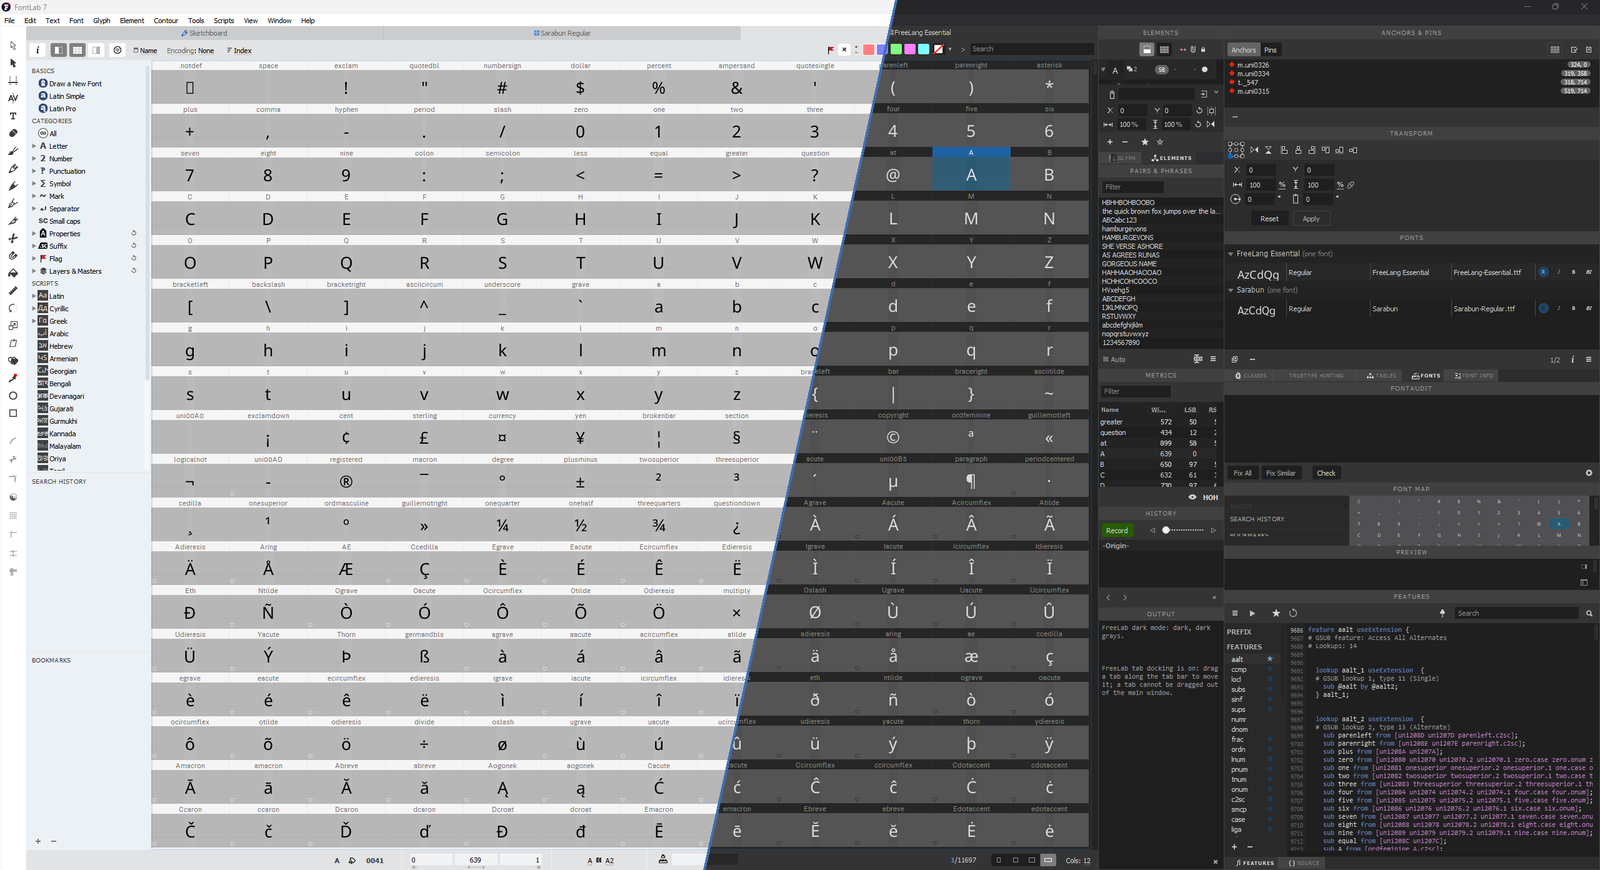
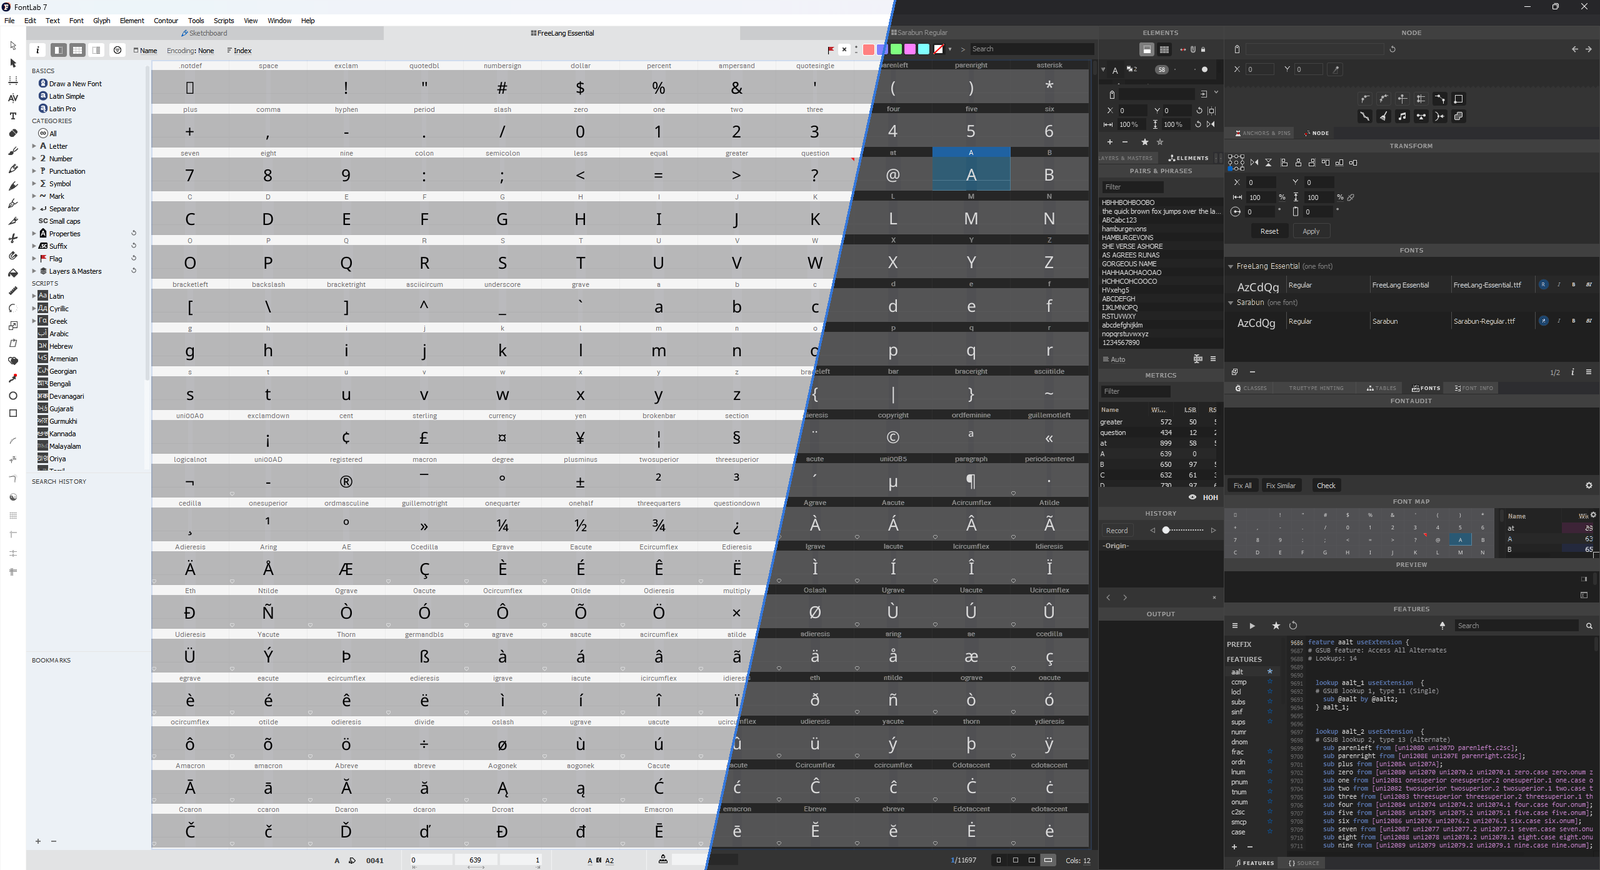
Dark mode: pictures in glyphs shown as they are; README picture retaken
- A canvas' pictures (a scan, a screenshot placed in a glyph) are drawn
  as they are over its mapping: FontLab's canvas API gives each picture
  element's place on screen (the element's transform, the glyph's place
  in its line, the canvas' transform), asked at most every 0.15 s.
- docs/images/dark-mode.png taken again with this round's fixes.
- Docs: the picture behavior, the roadmap's open items, history.

diff --git a/darkmode/freelab_dark_mode.py b/darkmode/freelab_dark_mode.py
@@ -2015,6 +2015,8 @@ def _effect_classes():
                     if logos:
                         draw_logos(painter, pixmap, offset, logos)
                     keep_unmapped(self, painter, pixmap, offset)
+                    if kind == "island" and self.freelab_keep_tint:
+                        keep_pictures(self, painter, pixmap, offset)
                 except Exception as exc:
                     _note_error("effect", exc)
                     self.drawSource(painter)
@@ -2117,6 +2119,16 @@ def _effect_classes():
                     # (the owner, November 24). On a ground dark already (the Font window's bar) it is kept.
                     continue
                 painter.drawPixmap(area.topLeft(), pixmap, local)
+
+        def keep_pictures(effect, painter, pixmap, offset):
+            """The pictures of the glyphs a canvas shows, drawn as they are over its mapping (see
+            _picture_rects): a scan or a screenshot turned over came out as a negative."""
+            for rect in _picture_rects(effect):
+                area = rect.translated(offset).intersected(QRect(offset, pixmap.size()))
+                if painter.hasClipping():
+                    area = area.intersected(painter.clipBoundingRect().toAlignedRect())
+                if not area.isEmpty():
+                    painter.drawPixmap(area.topLeft(), pixmap, area.translated(-offset.x(), -offset.y()))
 
         class TitleEffect(QGraphicsEffect):
             """Draw a panel as it is, then its title strip mapped."""
@@ -2781,6 +2793,66 @@ def _restore_cursor(widget, record):
             widget.setCursor(original)
     except Exception as exc:
         _note_error("cursor", exc)
+
+
+# A canvas' pictures (a scan or a screenshot placed in a glyph, to trace or to compare) are pixels like the rest
+# of the canvas, and the canvas is mapped whole: a picture came out as its negative, and whatever FontLab draws
+# over it with it (the owner, November 25: "inverted images also mess up with other stuff"). FontLab says where
+# each picture is: an element whose image is not null, in the shown layer of each glyph of the canvas' text;
+# the element's transform, the glyph's place in its line, and the canvas' own transform take it to the screen.
+# Its area is drawn as it is, over the mapping, with what FontLab draws on it in its light colors.
+PICTURE_RECTS_SECONDS = 0.15  # how long the places found are used before they are asked again (a repaint is often)
+PICTURE_MAX_GLYPHS = 200  # glyphs of a canvas' text looked at
+
+
+def _picture_rects(effect):
+    """The rectangles (widget coordinates, QRect) of the pictures a canvas shows, or []. Asked of FontLab at most
+    every PICTURE_RECTS_SECONDS. Never raises."""
+    try:
+        now = time.time()
+        kept = getattr(effect, "freelab_pictures", None)
+        if kept is not None and now - kept[0] < PICTURE_RECTS_SECONDS:
+            return kept[1]
+        rects = []
+        try:
+            rects = _find_picture_rects(effect.freelab_widget)
+        except Exception as exc:
+            _note_error("pictures", exc)
+        effect.freelab_pictures = (now, rects)
+        return rects
+    except Exception:
+        return []
+
+
+def _find_picture_rects(widget):
+    import fontlab
+    QRectF = _core("QRectF")
+    workspace = fontlab.flWorkspace.instance()
+    canvas = workspace.getCanvasForViewport(widget)
+    if canvas is None:
+        return []
+    found = []
+    to_screen = canvas.transform
+    for block in canvas.textBlocks():
+        glyphs = block.getAllGlyphs()
+        for index, info in enumerate(glyphs[:PICTURE_MAX_GLYPHS]):
+            glyph = info.glyph
+            if glyph is None:
+                continue
+            layer = glyph.activeLayer
+            layer = layer() if callable(layer) else layer
+            if layer is None:
+                continue
+            for shape in layer.shapes:
+                image = shape.image
+                if image is None or image.isNull():
+                    continue
+                rect = QRectF(0, 0, image.width(), image.height())
+                rect = shape.transform.mapRect(rect)
+                rect = block.getGlyphTransform(index).mapRect(rect)
+                rect = to_screen.mapRect(rect)
+                found.append(rect.toAlignedRect())
+    return found
 
 
 def _frame_picker(widget):

diff --git a/tests/darkmode_tests.py b/tests/darkmode_tests.py
@@ -281,6 +281,99 @@ class ShadeAndPickerTests(DarkModeCase):
                          "the glow black at the opacity it had; the arrow, its outline, and the outline's own smoothing as drawn")
         self.assertFalse(dm.glow_to_shadow(Picture([clear, white, black, edge])), "no glow: nothing to make")
 
+    def test_a_canvas_pictures_are_found_where_fontlab_draws_them(self):
+        """The owner, November 25: a picture in a glyph came out as its negative. Its place comes from FontLab:
+        the element's transform, the glyph's place in its line, the canvas' transform."""
+        import sys as system
+        import types
+
+        class Rect(object):
+            def __init__(self, x, y, w, h):
+                self.box = (x, y, w, h)
+
+            def toAlignedRect(self):
+                return self.box
+
+        class Scale(object):
+            def __init__(self, k, dx=0.0, dy=0.0):
+                self.k, self.dx, self.dy = k, dx, dy
+
+            def mapRect(self, rect):
+                x, y, w, h = rect.box
+                return Rect(x * self.k + self.dx, y * self.k + self.dy, w * self.k, h * self.k)
+
+        class Image(object):
+            def __init__(self, w, h):
+                self.w, self.h = w, h
+
+            def isNull(self):
+                return not self.w
+
+            def width(self):
+                return self.w
+
+            def height(self):
+                return self.h
+
+        class Shape(object):
+            def __init__(self, image, transform):
+                self.image, self.transform = image, transform
+
+        class Layer(object):
+            def __init__(self, shapes):
+                self.shapes = shapes
+
+        class Glyph(object):
+            def __init__(self, layer):
+                self.activeLayer = layer
+
+        class Info(object):
+            def __init__(self, glyph):
+                self.glyph = glyph
+
+        class Block(object):
+            def __init__(self, infos):
+                self.infos = infos
+
+            def getAllGlyphs(self):
+                return self.infos
+
+            def getGlyphTransform(self, index):
+                return Scale(1.0, dx=1000.0 * index)
+
+        class Canvas(object):
+            transform = Scale(0.5)
+
+            def textBlocks(self):
+                return [Block([Info(Glyph(Layer([Shape(Image(0, 0), Scale(1.0))]))),
+                               Info(Glyph(Layer([Shape(Image(300, 200), Scale(2.0))])))])]
+
+        class Workspace(object):
+            def getCanvasForViewport(self, widget):
+                return Canvas() if widget == "canvas" else None
+
+        fake = types.ModuleType("fontlab")
+        fake.flWorkspace = types.SimpleNamespace(instance=lambda: Workspace()) if hasattr(types, "SimpleNamespace") else None
+        if fake.flWorkspace is None:
+            class Holder(object):
+                @staticmethod
+                def instance():
+                    return Workspace()
+            fake.flWorkspace = Holder
+        saved = system.modules.get("fontlab")
+        system.modules["fontlab"] = fake
+
+        def restore():
+            if saved is None:
+                system.modules.pop("fontlab", None)
+            else:
+                system.modules["fontlab"] = saved
+        self.addCleanup(restore)
+        self.patch("_core", lambda name: (lambda x, y, w, h: Rect(x, y, w, h)) if name == "QRectF" else None)
+        self.assertEqual(dm._find_picture_rects("canvas"), [(500.0, 0.0, 300.0, 200.0)],
+                         "the second glyph's picture: 300 by 200, doubled, its glyph 1,000 units on, the canvas halved")
+        self.assertEqual(dm._find_picture_rects("elsewhere"), [], "no canvas: none")
+
     def test_a_pickers_bare_declarations_are_wrapped(self):
         """The owner, November 24: Overlay Fonts' opacity dropdown stayed white. Its stylesheet is "color:
         lightGray;", declarations with no selector: with the frame's rule after them Qt read neither, drew a plain

diff --git a/docs/ROADMAP.md b/docs/ROADMAP.md
@@ -2,8 +2,7 @@
 
 ## Next
 
-1. Dark mode's remaining display defects. Every dialog FontLab's menus open has been looked at (34 on 2026-11-24 with a static and a variable font open, the rest by the owner that day: *Create Instance*, *Place As Glyphs*, and *Compare Fonts* are dark; *Paste Special* and *Zoom* open no window of their own; *Adjust Stem Thickness* is not a FontLab 7 command). Of what the owner's review of that day found, these were reproduced in a fresh session and fixed ([HISTORY.md](HISTORY.md)): menus slow over a Font window with many cells selected, *Overlay Fonts*' sample text and color button, the *Actions* panel's small labels, the Glyph window's metrics table and the text typed in its fields. A second pass that day fixed *Replace Element*'s two buttons, the Font window's five view buttons, the white frame around the row last clicked in FontLab's lists, and *FontAudit*'s captions on the canvas. Later passes (2026-11-25) fixed the names on anchors' gray pills, panel titles on narrow panels, the light glow of FontLab's cursors, colored lines on the canvas (smooth again), black previews in dark lists (*Generate Instance*'s "Ag"), *Overlay Fonts*' rows and the overlaid glyphs' counters in the Font window, the Fonts panel's letters on their discs, the metrics table's three buttons, and ClearType's colored edges in lists, text views, and interface islands (counted with *tools/find_fringes.py*: 14,404 pairs of opposite hues on the main window, 2,748 after). Still open:
-   - **A picture in a glyph** is shown with its grays inverted. The canvas API can place a glyph's elements on the screen (`flCanvas.mapToViewport`, the text block's `getGlyphTransform`), so a picture's area could be drawn as it is; not built, for want of a picture to build it against (pasting one from a script did not take).
+1. Dark mode's remaining display defects. Every dialog FontLab's menus open has been looked at (34 on 2026-11-24 with a static and a variable font open, the rest by the owner that day: *Create Instance*, *Place As Glyphs*, and *Compare Fonts* are dark; *Paste Special* and *Zoom* open no window of their own; *Adjust Stem Thickness* is not a FontLab 7 command). Of what the owner's review of that day found, these were reproduced in a fresh session and fixed ([HISTORY.md](HISTORY.md)): menus slow over a Font window with many cells selected, *Overlay Fonts*' sample text and color button, the *Actions* panel's small labels, the Glyph window's metrics table and the text typed in its fields. A second pass that day fixed *Replace Element*'s two buttons, the Font window's five view buttons, the white frame around the row last clicked in FontLab's lists, and *FontAudit*'s captions on the canvas. Later passes (2026-11-25) fixed pictures in glyphs (shown as they are), the names on anchors' gray pills, panel titles on narrow panels, the light glow of FontLab's cursors, colored lines on the canvas (smooth again), black previews in dark lists (*Generate Instance*'s "Ag"), *Overlay Fonts*' rows and the overlaid glyphs' counters in the Font window, the Fonts panel's letters on their discs, the metrics table's three buttons, and ClearType's colored edges in lists, text views, and interface islands (counted with *tools/find_fringes.py*: 14,404 pairs of opposite hues on the main window, 2,748 after). Still open:
    - Text Qt draws itself with Windows' ClearType, outside any effect: the menu bar, buttons, captions. Its colored edges are Windows' own on a dark ground; most of the 2,748 pairs left.
    - *TrueType Hinting*'s size numbers under its preview (blue on white: readable, but soft). The preview shows ClearType's colors on purpose, and what is on pure white is left as drawn.
    - A name on a pill where a guide crosses the pill: the letters beside the guide stay dark.

diff --git a/docs/HISTORY.md b/docs/HISTORY.md
@@ -29,6 +29,7 @@ How each tool came to work as it does: what it did before, what it does now, and
 - 2026-11-24: A second pass over the same review. Buttons FontLab paints itself, white whatever their stylesheet says, got rules of their own: a text button (*Replace Element*'s *Elements* and *Glyphs*) is given dark text and mapped whole, since its text took the light color dark mode had put in the stylesheet, light on light; an icon button (the Font window's five view buttons) is mapped as ink with FontLab's own icon, one found white marking its siblings, since a checked one is gray when looked at. They had stood white in the dark bar, or dark once something else repainted them. The style no longer draws a focus frame around the current row of FontLab's lists (dark as drawn, the list's mapping made it a white frame). In the native helper, ClearType's smoothing of dark text on an off-white tag is mapped from its darkest channel, which says how much ink the stroke has there (*FontAudit*'s captions on the canvas: turned over by its own lightness, thin text was mostly dim colored edges); text on pure white is left as it was, TrueType Hinting's preview being ClearType's colors on purpose.
 - 2026-11-25: FontLab's cursors over a canvas carry a white glow, for a light canvas; on the dark one it stood beside the arrow as a light shadow, which the owner took for an inverted one. Dark mode gives the canvas a copy of each cursor with the glow made dark, and watches the canvas for the cursor FontLab sets at each change of tool. Helper version 117: on content too, light text on a gray badge is drawn from the badge as it comes out toward white (an anchor's name on its pill, a selected cell's caption: turned over with the rest, the name came out darker than its pill), two near shades of gray counting as one badge (a pill is translucent over the canvas' picture); and a panel's title is grayed by its darkest channel before it is mapped (on a narrow panel, the thin capitals ClearType draws came out uneven as the channels' mean).
 - 2026-11-25: The owner's review of the multi-master session. Helper versions 118 to 122: on content, a colored pixel that is no anchor is ink over the paper, as much of it as its distance from the paper says, so a contour's smoothing fades into the dark canvas (each pixel had been judged by its own color: a line's core kept, its smoothing turned over, steps and dots on every colored line); in a list dark already, black ink turns light; the white inside a colored letter is the row's, not a mark on a control; the paper inside a colored letter is no text on a colored band (an overlaid font's counters); in an island of the interface, light text on a strongly colored disc stays as drawn (the Fonts panel's style links). In Python: lists, text views, and interface islands are defringed after the mapping; a widget whose own stylesheet gives it a ground is kept out of the mapping above it; the event filter has a revision, so a module loaded again replaces the old one (no canvas cursor had been replaced in such a session). *tools/find_fringes.py* counts ClearType's leftover edges in a screenshot and shows the worst squares, so they are found by measure rather than by eye.
+- 2026-11-25: A picture in a glyph (a scan, a screenshot) is shown as it is on the dark canvas: FontLab's canvas API says where each picture element is on screen, and that area is drawn as it is over the mapping. Placed for the test by dropping a file on the canvas from a script; *placeArtwork* and pasting had not worked. The README's dark mode picture was taken again.
 
 ## Auto Kerning and Kerning Check
 

diff --git a/docs/DARKMODE.md b/docs/DARKMODE.md
@@ -79,7 +79,7 @@ Dark mode tells FreeLab once it has switched, either way (`sys._freelab_theme_ho
 ## Known limits
 
 - **Cursors.** FontLab's cursors over a canvas are pictures with a white glow. Dark mode replaces each, on the canvases it maps, by a copy whose glow is dark, and puts FontLab's own back when it is switched off. With *Mixed* ticked the canvases stay light, and so do the cursors.
-- **A picture in a glyph is shown with its grays inverted.** The Glyph window's canvas is mapped as a whole: grays turn over, colors stay. A picture pasted or placed in a glyph (a scan to trace, a screenshot) is pixels like the rest, so its white comes out dark and its black light, its colors unchanged; the picture itself is untouched, and what *Autotrace* reads is the picture as it is. To see pictures as they are, tick *Mixed* in *Scripts > FreeLab > Dark Mode Settings*, which leaves the canvases light.
+- **A picture in a glyph is shown as it is, and so is what FontLab draws over it.** The Glyph window's canvas is mapped as a whole, and a picture placed in a glyph (a scan to trace, a screenshot) came out as its negative. FontLab says where each picture is: an element whose image is not null, in the shown layer of each glyph of the canvas' text, taken to the screen by the element's transform, the glyph's place in its line, and the canvas' own. That area is drawn as it is over the mapping, asked again at most every 0.15 s, so a picture being dragged catches up a moment later. The outlines, nodes, and guides FontLab draws over the picture keep their light colors there.
 - **Switching can stall on a locked clipboard.** Switching on or off changes FontLab's workspace color preference (when *content* is on). FontLab answers any preference change by checking the clipboard several times, and while another program holds the clipboard open, Qt retries each check with pauses: on 2026-11-12, with the clipboard held by another program (`OpenClipboard` refused everywhere), every preference change took 8.6 s in FontLab with no FreeLab code loaded at all, and switching dark mode took about 10 s on and 11.5 s off, 8.6 s of it in that one step. The rest is about 1.5 s (style and palette) and, on switching on, the widget queue, worked through in slices over about 8 s while FontLab stays usable. Freeing the clipboard (closing or restarting the program that holds it) removes the stall.
 
 ## PythonQt traps met on the way
